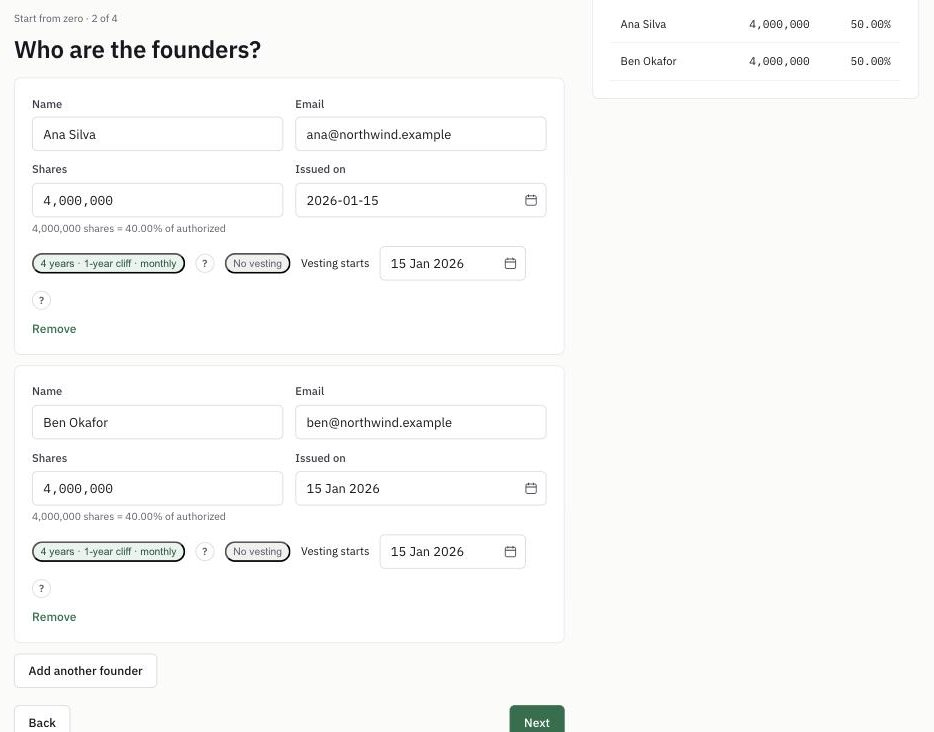
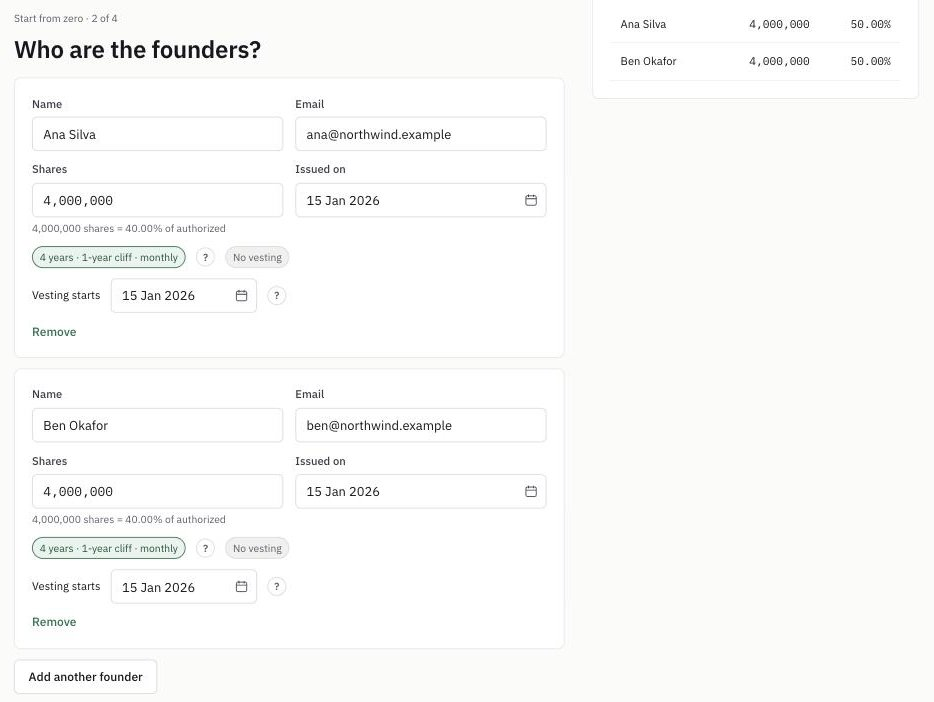
Help: retake the founders screenshot (after the '?' and chip fixes)

diff --git a/apps/website/help/founders/index.html b/apps/website/help/founders/index.html
@@ -53,7 +53,7 @@ dl{margin:8px 0 0}dt{font-weight:600;margin-top:12px}dd{margin:2px 0 0;color:#3A
     <li>Pick the vesting: <b>4 years · 1-year cliff · monthly</b> is the usual one; choose <b>No vesting</b> if their shares were fully theirs from day one.</li>
     <li>Click <b>Add another founder</b> for each co-founder. The cap table on the right fills in as you type.</li>
   </ol>
-  <figure><img src="/help/img/founders-wizard.jpg" width="934" height="732" alt="The 'Who are the founders?' step with two founders, Ana Silva and Ben Okafor, each with 4,000,000 shares and a 4-year vesting schedule. On the right, a live cap table shows 50% each." loading="lazy"><figcaption>Each founder's shares show as a percentage of authorized shares, and the cap table on the right updates live.</figcaption></figure>
+  <figure><img src="/help/img/founders-wizard.jpg" width="934" height="702" alt="The 'Who are the founders?' step with two founders, Ana Silva and Ben Okafor, each with 4,000,000 shares and a 4-year vesting schedule. On the right, a live cap table shows 50% each." loading="lazy"><figcaption>Each founder's shares show as a percentage of authorized shares, and the cap table on the right updates live.</figcaption></figure>
   <div class="tip">Not sure what a field means? Click the <b>?</b> next to it for a one-line explanation.</div>
 
   <h2>3. Save, then check your cap table</h2>
